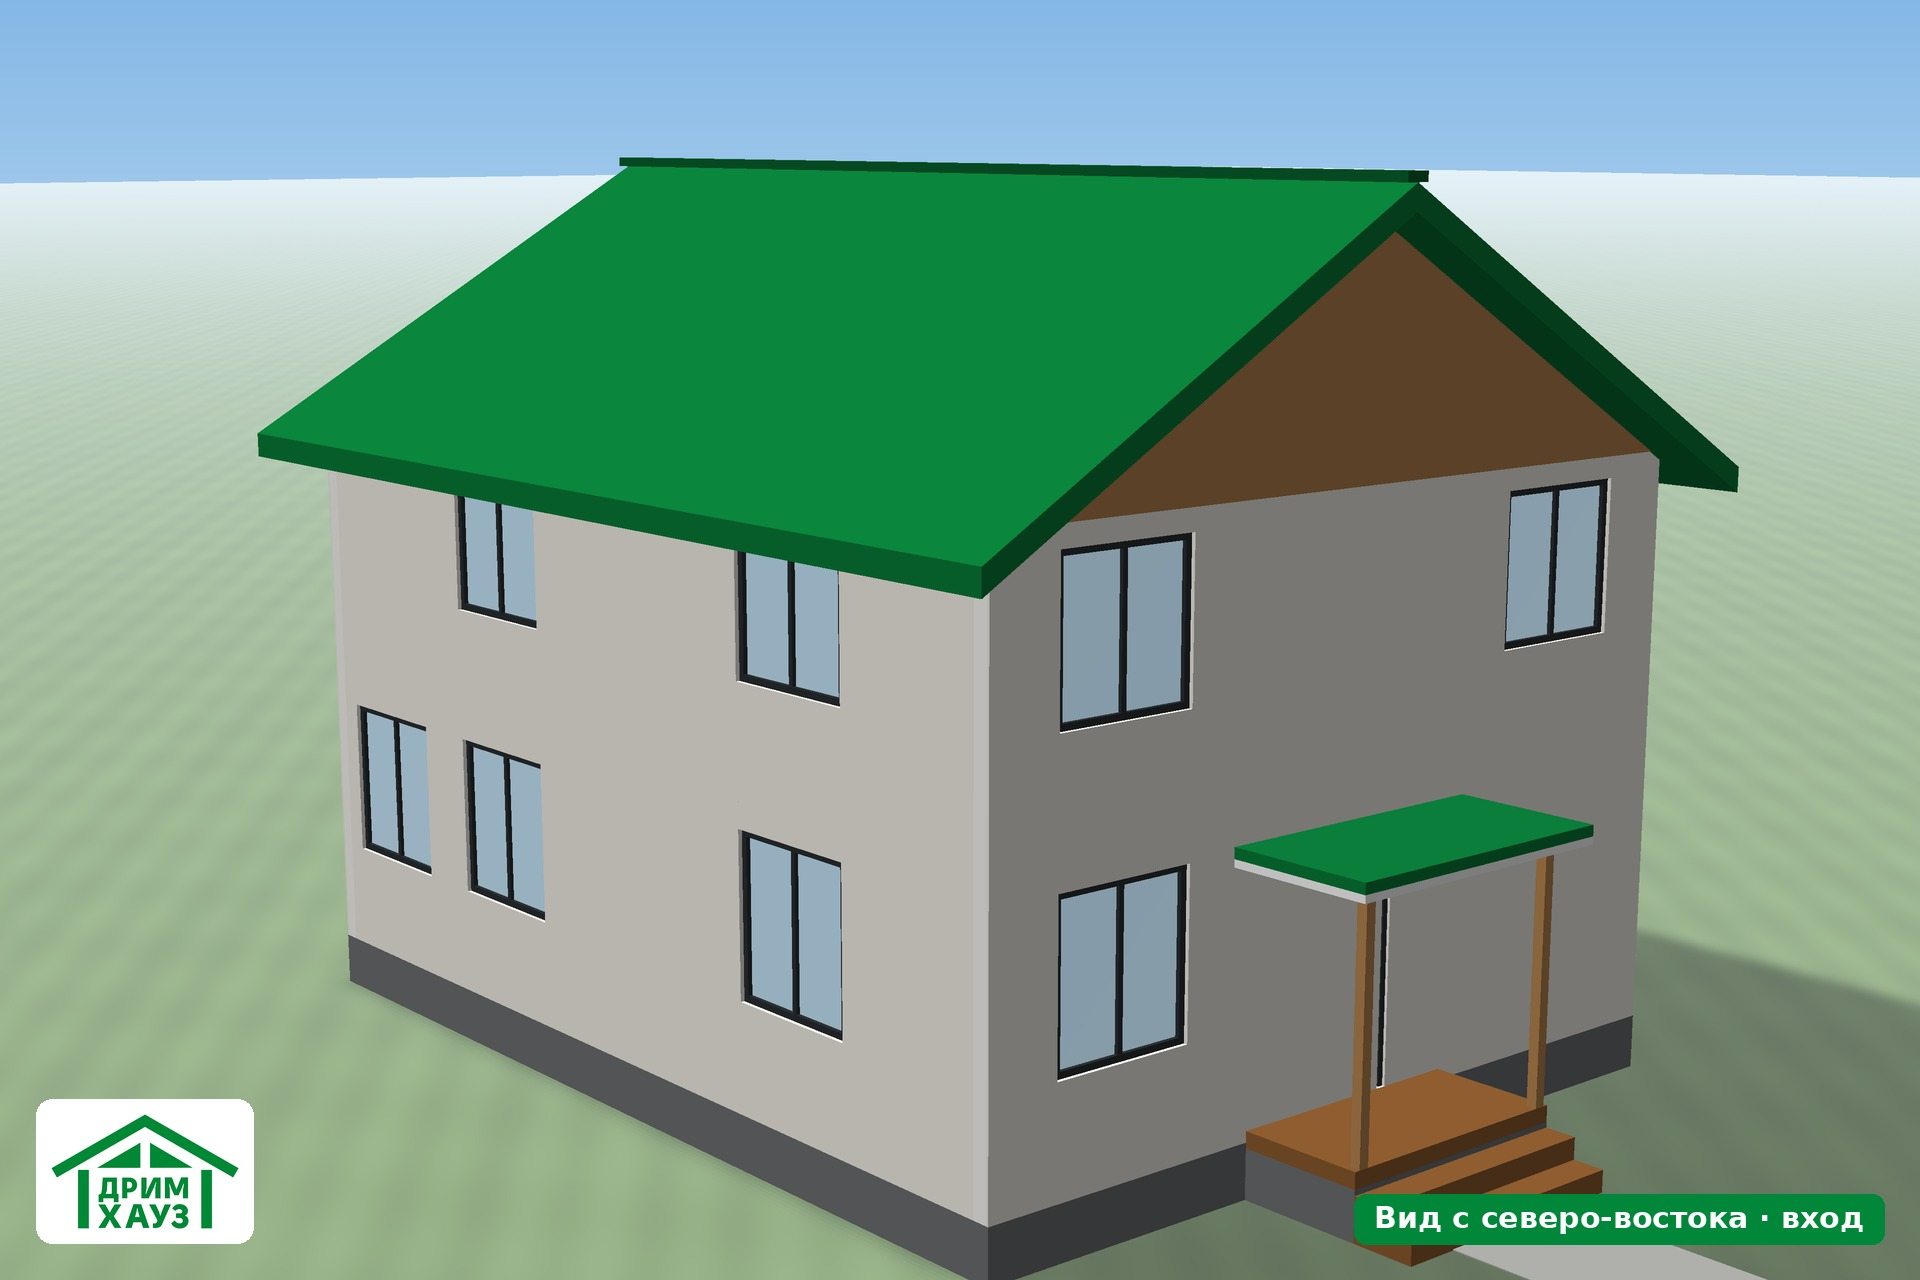
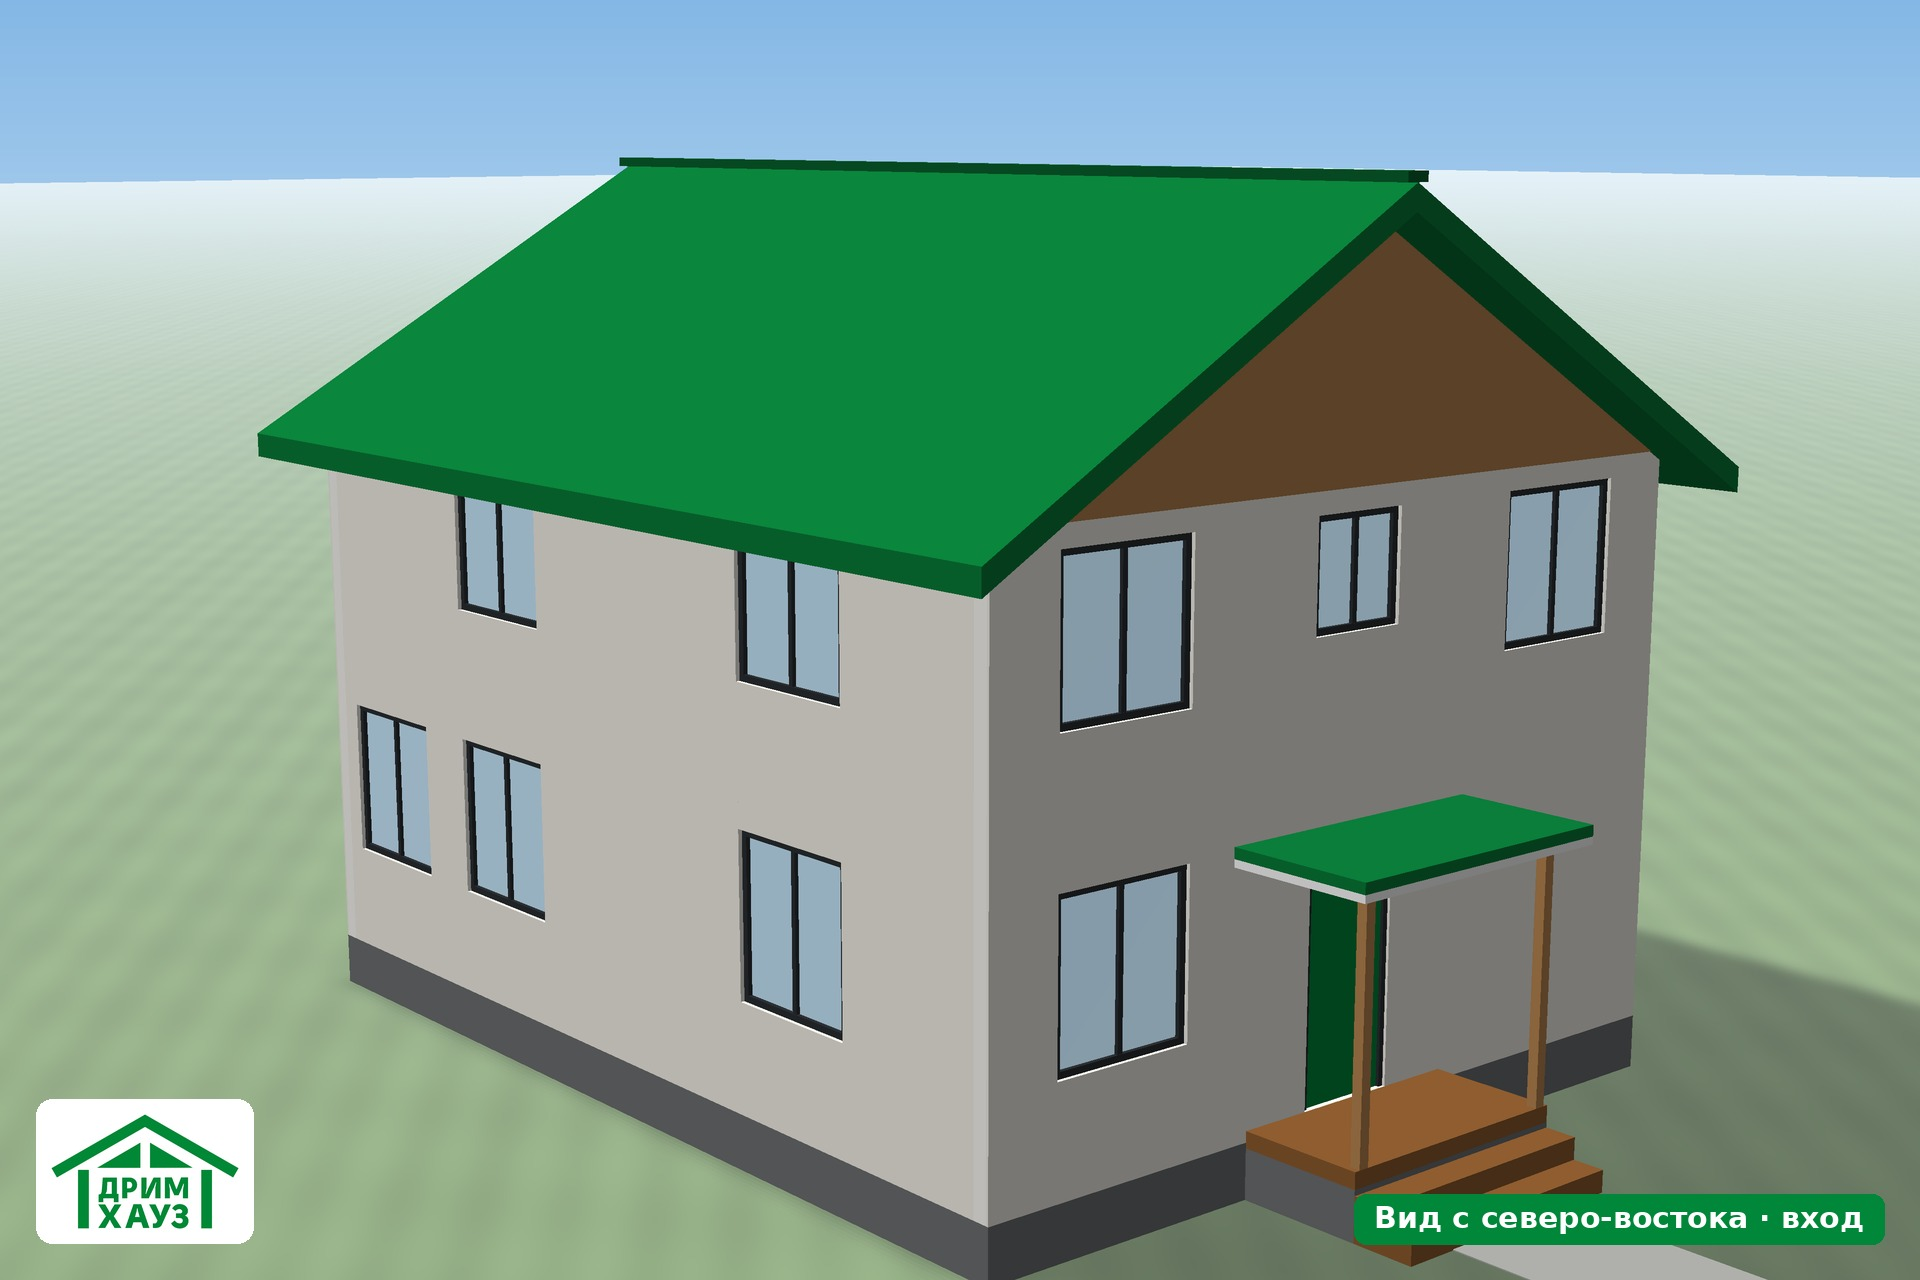
Исправления тура: вход, пол галереи, мебель у лестницы; контакты; убрано скачивание модели
Claude-Session: https://claude.ai/code/session_011WyLv29dDS2vm3uwP2Q9c8

Changed region(s): [[0.6562, 0.6875, 0.7188, 0.875], [0.6875, 0.375, 0.75, 0.5]]

diff --git a/js/tour.js b/js/tour.js
@@ -65,12 +65,24 @@ function tree(x, z, s) {
 }
 [[-7, -4, 1.2], [14, -3, 1.0], [-9, 7, 1.4], [16, 9, 1.3], [-5, 16, 1.1], [13, 17, 1.2], [20, 2, 1.5], [-12, -10, 1.3], [8, -14, 1.1], [-3, 21, 1.0]].forEach(t => tree(...t));
 
+// тёплый свет внутри дома
+function lamp(x, y, z, i, d) { const l = new THREE.PointLight('#fff0d4', i, d, 1.5); l.position.set(x, y, z); scene.add(l); }
+lamp(4.0, 2.7, 1.8, 5, 7);      // тамбур
+lamp(4.0, 4.3, 7.6, 16, 15);    // гостиная
+lamp(6.6, 2.7, 2.7, 5, 8);      // спальня 1 эт.
+lamp(3.2, 5.3, 6.4, 6, 9);      // галерея
+lamp(6.6, 5.4, 3.0, 5, 8);      // спальни 2 эт.
+lamp(6.6, 5.4, 8.0, 5, 8);
+
+let doorClosed = null, doorOpen = null;
+
 // ---------- загрузка ----------
 const loader = new GLTFLoader();
 loader.load('assets/dreamhouse_150.glb', gltf => {
   gltf.scene.traverse(o => {
     if (!o.isMesh) return;
-    if (o.name.includes('door_leaf')) { o.visible = false; return; }
+    if (o.name.includes('door_leaf')) { doorClosed = o; o.castShadow = true; return; }
+    if (o.name.includes('door_open')) { doorOpen = o; o.visible = false; o.castShadow = true; return; }
     const glass = o.name.startsWith('glass');
     o.castShadow = !glass; o.receiveShadow = true;
     if (glass) { o.material.depthWrite = false; o.renderOrder = 2; }
@@ -273,6 +285,19 @@ function drawMini() {
   mctx.fillStyle = '#00873a'; mctx.beginPath(); mctx.arc(px, py, 4, 0, 7); mctx.fill();
 }
 
+function move(f, s, run, dt) {
+  const len = Math.hypot(f, s);
+  if (len > 1) { f /= len; s /= len; }
+  if (len > 0.02) {
+    const sp = (run ? RUN : WALK) * dt;
+    const fx = -Math.sin(yaw), fz = -Math.cos(yaw), rx = Math.cos(yaw), rz = -Math.sin(yaw);
+    const dx = (fx * f + rx * s) * sp, dz = (fz * f + rz * s) * sp;
+    if (!blocked(pos.x + dx, pos.y)) pos.x += dx;
+    if (!blocked(pos.x, pos.y + dz)) pos.y += dz;
+  }
+  floorY(pos.x, pos.y);
+}
+
 // ---------- цикл ----------
 new IntersectionObserver(es => { visible = es[0].isIntersecting; }, { threshold: 0.05 }).observe(rootEl);
 let last = performance.now();
@@ -290,15 +315,11 @@ function frame(now) {
     if (keys.has('ArrowLeft')) yaw += 1.8 * dt;
     if (keys.has('ArrowRight')) yaw -= 1.8 * dt;
     f += -joy.y; s += joy.x;
-    const len = Math.hypot(f, s);
-    if (len > 1) { f /= len; s /= len; }
-    if (len > 0.02) {
-      const sp = (keys.has('ShiftLeft') || keys.has('ShiftRight') ? RUN : WALK) * dt;
-      const fx = -Math.sin(yaw), fz = -Math.cos(yaw), rx = Math.cos(yaw), rz = -Math.sin(yaw);
-      const dx = (fx * f + rx * s) * sp, dz = (fz * f + rz * s) * sp;
-      if (!blocked(pos.x + dx, pos.y)) pos.x += dx;
-      if (!blocked(pos.x, pos.y + dz)) pos.y += dz;
-    }
+    move(f, s, keys.has('ShiftLeft') || keys.has('ShiftRight'), dt);
+  }
+  if (doorClosed && doorOpen) {
+    const near = level === 1 && Math.hypot(pos.x - 4.0, pos.y - 0.1) < 2.6;
+    doorClosed.visible = !near; doorOpen.visible = near;
   }
   const ty = floorY(pos.x, pos.y) + EYE;
   camY += (ty - camY) * Math.min(1, dt * 12);
@@ -308,6 +329,9 @@ function frame(now) {
   drawMini();
 }
 requestAnimationFrame(frame);
+
+// для отладки/проверок
+window.__tour = { get level() { return level; }, get x() { return pos.x; }, get z() { return pos.y; }, get y() { return camY; }, go, walk(f, s, dt) { move(f, s, false, dt); camY = floorY(pos.x, pos.y) + EYE; }, setPos(x, z) { pos.set(x, z); }, setYaw(v) { yaw = v; }, setLevel(v) { level = v; }, get keys() { return keys; }, begin };
 
 // стартовая точка: вид на дом снаружи
 go('out');

diff --git a/index.html b/index.html
@@ -21,6 +21,7 @@
     <a href="#plan">План</a>
     <a href="#tour">3D-тур</a>
   </nav>
+  <a class="tel" href="tel:+79785184695"><span class="tel-ic">&#9742;</span><span class="tel-num">+7 (978) 518-46-95</span></a>
 </header>
 
 <main id="top">
@@ -137,7 +138,16 @@
         </div>
       </div>
       <p class="note">Это упрощённая модель для знакомства с планировкой: мебель условная, отделка и инженерные системы не показаны.</p>
-      <p class="dl"><a class="btn ghost" href="assets/dreamhouse_150.glb" download>Скачать 3D-модель (.glb)</a></p>
+    </div>
+  </section>
+
+  <section id="contacts" class="block alt">
+    <div class="wrap cta">
+      <div>
+        <h2 class="cta-h">Понравился дом?</h2>
+        <p class="sub" style="margin:0">Расскажем о сроках и стоимости, подберём планировку под ваш участок и семью.</p>
+      </div>
+      <a class="btn big" href="tel:+79785184695">Позвонить: +7 (978) 518-46-95</a>
     </div>
   </section>
 </main>
@@ -147,6 +157,7 @@
     <img src="assets/logo_white.png" alt="ДримХауз">
     <div>
       <p><b>ДримХауз</b> — строительство каркасных домов из СИП-панелей в Севастополе и Крыму.</p>
+      <p>Телефон: <a href="tel:+79785184695"><b>+7 (978) 518-46-95</b></a></p>
       <p><a href="https://дримхауз.рф" target="_blank" rel="noopener">дримхауз.рф</a></p>
       <p class="small">Эскизный проект не является рабочей документацией. Размеры и планировка могут быть скорректированы.</p>
     </div>

diff --git a/style.css b/style.css
@@ -107,3 +107,19 @@ tr:last-child td{border-bottom:0}
 @media (max-width:760px){#minimap{width:88px;height:auto}}
 
 .tour:not(.started) .joy{display:none!important}
+
+/* контакты */
+.tel{display:inline-flex;align-items:center;gap:8px;color:#fff;text-decoration:none;font-weight:700;font-size:16px;padding:8px 14px;border:2px solid rgba(255,255,255,.7);border-radius:12px;white-space:nowrap}
+.tel:hover{background:rgba(255,255,255,.18)}
+.tel-ic{font-size:18px}
+.cta{display:flex;align-items:center;justify-content:space-between;gap:24px;flex-wrap:wrap}
+.cta-h{margin:0 0 6px}
+.btn.big{font-size:18px;padding:16px 28px}
+@media (max-width:760px){
+  .top{flex-wrap:wrap;row-gap:6px}
+  .tel-num{display:none}
+  .tel{padding:8px 11px}
+  .cta{flex-direction:column;align-items:flex-start}
+  .btn.big{width:100%;text-align:center}
+}
+@media (max-width:480px){.top nav a{padding:7px 7px;font-size:13px}.brand img{height:32px}}

diff --git a/README.md b/README.md
@@ -1,6 +1,8 @@
 # ДримХауз — эскизный проект дома 150 м²
 
 Двухэтажный дом из СИП-панелей на сваях: визуализации, планы этажей и 3D-тур по дому.
-Статический сайт (GitHub Pages), модель — `assets/dreamhouse_150.glb`.
+Статический сайт (GitHub Pages).
+
+Телефон: +7 (978) 518-46-95 · дримхауз.рф
 
 Эскизный проект не является рабочей документацией.
